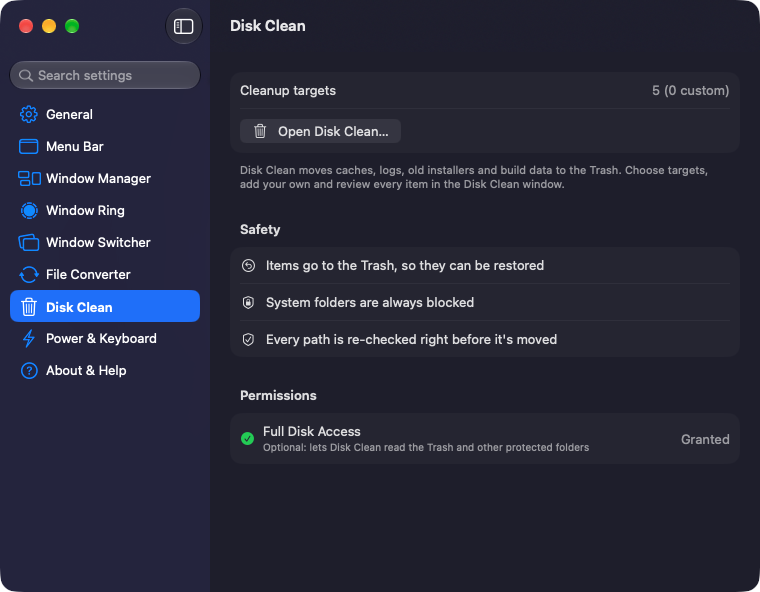
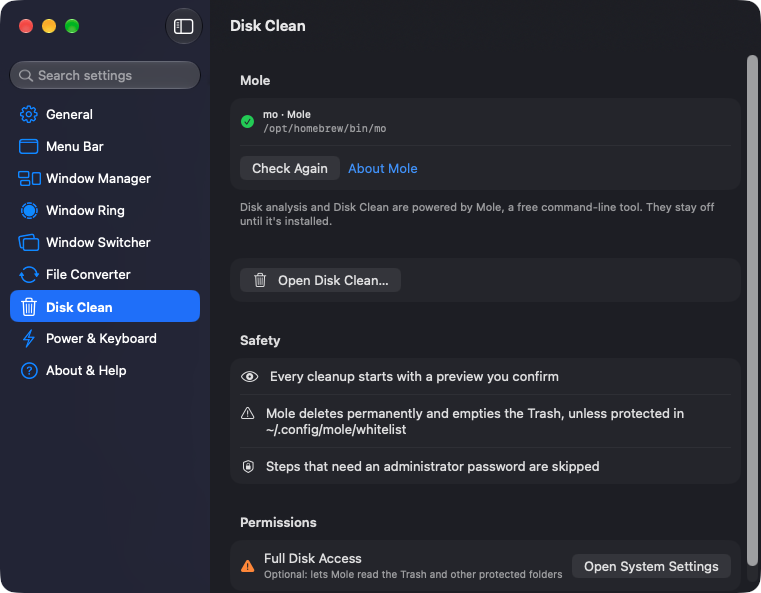
docs: document Mole-powered Disk Clean and refresh screenshots
- README and website describe the Mole setup, the Overview / Clean /
  Optimize modes, safety and Full Disk Access; credit Mole.
- New and updated Disk screenshots, plus a Clean preview capture.
- Correct the privacy claim: the only network request is the daily
  update check, which can be turned off.

diff --git a/docs/i18n.js b/docs/i18n.js
@@ -41,17 +41,17 @@ window.I18N = {
     'pv.r1c': 'Restano spente, il resto funziona',
     'pv.r2b': 'Anteprime dal vivo nello switcher',
     'pv.r2c': 'Mostra le icone delle app',
-    'pv.r3b': 'Disk Clean nelle cartelle protette (facoltativo)',
-    'pv.r3c': 'Indicate come non leggibili',
+    'pv.r3b': 'Mole legge le cartelle protette, come il Cestino (facoltativo)',
+    'pv.r3c': 'Mole le salta',
     'pv.r4a': 'Rete',
-    'pv.r4b': 'Niente. Nessuna chiamata, nessuna analytics.',
+    'pv.r4b': 'Solo un controllo giornaliero degli aggiornamenti, disattivabile. Nessuna analytics.',
     'in.title': 'Pronto <i>in un minuto.</i>',
     'in.s1': 'Scarica l\'ultimo <code>Rondo.zip</code> da GitHub Releases e sposta Rondo in Applicazioni.',
     'in.s2': 'L\'app non è notarizzata: la prima volta, clic destro → <b>Apri</b>.',
     'in.s3': 'Cerca l\'anello nella barra dei menu. Concedi Accessibilità quando vuoi le funzioni per le finestre.',
-    'in.s4': 'Facoltativo, per video, audio e WebP:',
+    'in.s4': 'Facoltativo, per Disk Clean, video, audio e WebP:',
     'in.req': 'Richiede macOS 26 Tahoe o successivo',
-    'ft.credits': 'Anello ispirato a Loop, Disk Clean a One Menu, converter a Tangerine.'
+    'ft.credits': 'Anello ispirato a Loop, suggerimenti di affiancamento a One Menu, converter a Tangerine. Analisi e pulizia del disco con Mole.'
   },
 
   dial: {
@@ -60,8 +60,8 @@ window.I18N = {
         body: 'CPU, memory and disk as rings, network as a one-minute chart. Click a ring for the full System Monitor.',
         list: ['Top memory apps, helpers grouped, one-click quit', 'GPU, temperatures and fans in the monitor', 'Sampling only while you look'] },
       { key: '⌘2', name: 'Disk', shot: 'disk-clean.png',
-        body: 'See the biggest folders, then clean caches, logs and DerivedData. Everything goes to the Trash first.',
-        list: ['Review the summary before confirming', 'Custom targets with ~ and *', 'System folders are always blocked'] },
+        body: 'Free space, a donut of your home folder and a treemap you can drill into. Cleaning and maintenance run through Mole.',
+        list: ['Treemap or tree list, hover for sizes', 'Every cleanup is previewed before you confirm', 'Needs the free Mole CLI: brew install mole'] },
       { key: '⌃⌥', name: 'Windows', shot: 'window-ring.png',
         body: 'Hold ⌃⌥, move toward a zone, let go. A preview shows exactly where the window lands.',
         list: ['14 zones, each with its own shortcut', 'Fling windows to another display', 'Tiling suggestions fill what\'s left'] },
@@ -80,8 +80,8 @@ window.I18N = {
         body: 'CPU, memoria e disco come anelli, la rete come grafico dell\'ultimo minuto. Clicca un anello per il System Monitor completo.',
         list: ['App che usano più memoria, helper raggruppati, chiusura con un clic', 'GPU, temperature e ventole nel monitor', 'Campiona solo mentre guardi'] },
       { key: '⌘2', name: 'Disco', shot: 'disk-clean.png',
-        body: 'Vedi le cartelle più pesanti, poi pulisci cache, log e DerivedData. Tutto passa prima dal Cestino.',
-        list: ['Rivedi il riepilogo prima di confermare', 'Obiettivi personalizzati con ~ e *', 'Le cartelle di sistema sono sempre bloccate'] },
+        body: 'Spazio libero, una ciambella della cartella Inizio e una mappa ad albero in cui scendere. Pulizia e manutenzione passano da Mole.',
+        list: ['Mappa o elenco ad albero, passa sopra per le dimensioni', 'Ogni pulizia mostra un\'anteprima prima di confermare', 'Richiede la CLI gratuita Mole: brew install mole'] },
       { key: '⌃⌥', name: 'Finestre', shot: 'window-ring.png',
         body: 'Tieni premuto ⌃⌥, muoviti verso una zona, rilascia. Un\'anteprima mostra dove finirà la finestra.',
         list: ['14 zone, ognuna con la sua scorciatoia', 'Lancia le finestre su un altro schermo', 'I suggerimenti riempiono lo spazio rimasto'] },

diff --git a/docs/index.html b/docs/index.html
@@ -131,8 +131,8 @@
     <div class="row th"><span data-i18n="pv.h1">Permission</span><span data-i18n="pv.h2">Used for</span><span data-i18n="pv.h3">Without it</span></div>
     <div class="row"><span>Accessibility</span><span data-i18n="pv.r1b">Zones, Window Ring, switcher, Keyboard Cleaning</span><span data-i18n="pv.r1c">Those stay off, the rest works</span></div>
     <div class="row"><span>Screen Recording</span><span data-i18n="pv.r2b">Live thumbnails in the switcher</span><span data-i18n="pv.r2c">App icons instead</span></div>
-    <div class="row"><span>Full Disk Access</span><span data-i18n="pv.r3b">Disk Clean in protected folders (optional)</span><span data-i18n="pv.r3c">Listed as unreadable</span></div>
-    <div class="row"><span data-i18n="pv.r4a">Network</span><span data-i18n="pv.r4b">Nothing. No calls, no analytics.</span><span>—</span></div>
+    <div class="row"><span>Full Disk Access</span><span data-i18n="pv.r3b">Mole reads protected folders such as the Trash (optional)</span><span data-i18n="pv.r3c">Mole skips them</span></div>
+    <div class="row"><span data-i18n="pv.r4a">Network</span><span data-i18n="pv.r4b">Only a daily update check, which you can turn off. No analytics.</span><span>—</span></div>
   </div>
 </section>
 
@@ -146,7 +146,7 @@
     <li><b>01</b><span data-i18n="in.s1">Download the latest <code>Rondo.zip</code> from GitHub Releases and move Rondo to Applications.</span></li>
     <li><b>02</b><span data-i18n="in.s2">The app isn't notarized: the first time, right-click → <b>Open</b>.</span></li>
     <li><b>03</b><span data-i18n="in.s3">Look for the ring in the menu bar. Grant Accessibility when you want the window features.</span></li>
-    <li><b>04</b><span data-i18n="in.s4">Optional, for video, audio and WebP:</span><code class="cmd">brew install ffmpeg webp</code></li>
+    <li><b>04</b><span data-i18n="in.s4">Optional, for Disk Clean, video, audio and WebP:</span><code class="cmd">brew install mole ffmpeg webp</code></li>
   </ol>
   <div class="cta center">
     <a class="btn" href="https://github.com/simone98dm/rondo/releases/latest" data-i18n="cta.download">Download for macOS</a>
@@ -159,7 +159,7 @@
 
 <footer class="foot">
   <span>Rondo · <a href="https://github.com/simone98dm/rondo">github.com/simone98dm/rondo</a></span>
-  <span data-i18n="ft.credits">Ring inspired by Loop, Disk Clean by One Menu, converter by Tangerine.</span>
+  <span data-i18n="ft.credits">Ring inspired by Loop, tiling suggestions by One Menu, converter by Tangerine. Disk analysis and cleaning by Mole.</span>
 </footer>
 
 <script src="https://cdnjs.cloudflare.com/ajax/libs/three.js/r128/three.min.js" integrity="sha384-CI3ELBVUz9XQO+97x6nwMDPosPR5XvsxW2ua7N1Xeygeh1IxtgqtCkGfQY9WWdHu" crossorigin="anonymous" defer></script>

diff --git a/README.md b/README.md
@@ -93,23 +93,22 @@ Settings → **Menu Bar** has a live preview on light and dark menu bars.
 
 ## Disk and Disk Clean
 
-| Disk tab | Disk Clean window |
-| :---: | :---: |
-| ![Disk tab](screenshot/popover-disk.png) | ![Disk Clean](screenshot/disk-clean.png) |
+| Disk tab | Disk Clean: Overview | Disk Clean: Clean preview |
+| :---: | :---: | :---: |
+| ![Disk tab](screenshot/popover-disk.png) | ![Disk Clean overview with treemap](screenshot/disk-clean.png) | ![Clean preview by category](screenshot/disk-clean-clean.png) |
 
-- The **Disk tab** shows a donut of the largest folders in your home folder, scanned on demand.
-- Clicking the donut, a folder, or **Clean Up…** opens **Disk Clean**. Right-click a folder to show it in Finder.
-- **Disk Clean**:
-  1. Press **Scan**.
-  2. Each target shows its item count and size: user caches, logs, Xcode DerivedData, installers in Downloads, and the Trash.
-  3. Tick the targets you want, and expand a target to untick single items.
-  4. Press **Move to Trash…** and review the summary before confirming.
-- Items are **moved to the Trash**, so you can put them back. Only the Trash target deletes permanently, and it's labelled that way.
-- **Custom targets** accept `~` and `*` (e.g. `~/Downloads/*.tmp`).
-  - System folders are always blocked.
-  - Paths inside `/Users`, `/Library`, `/Applications` and `/Volumes` must be at least 4 levels deep.
-  - Every path is re-checked (symlinks resolved) right before it's moved.
-- Folders Rondo can't read are listed, with a link to grant **Full Disk Access**.
+Disk analysis and cleanup are powered by [Mole](https://github.com/tw93/mole), a free open-source CLI. Rondo ships no cleaning logic of its own: it runs `mo`, reads its previews and charts the results.
+
+- **Setup:** install Mole with `brew install mole`. On first launch without it, Rondo opens Disk Clean with the install command to copy. The Disk features stay off until `mo` is found (Settings → Disk Clean → **Check Again**).
+- The **Disk tab** shows free space and a donut of what fills your home folder (`mo analyze --json ~`). Hover a slice or a legend row to read it. Click a row to show it in Finder.
+- **Disk Clean** has three modes:
+  - **Overview:** free space, a home-folder donut, Mole's heavy locations (cleanable caches marked), and a folder explorer. Switch the explorer between **UI**, a treemap that fills the window where each tile's area is its size (hover for name, size and share; click a folder to open it), and **List**, an expandable tree. Every folder is analyzed by Mole the first time you open it.
+  - **Clean:** `mo clean --dry-run` shows the space to free as a donut by category, plus every path. **Clean…** runs `mo clean`.
+  - **Optimize:** `mo optimize --dry-run` lists the maintenance tasks. **Optimize…** runs `mo optimize`.
+- Clean and Optimize always preview first. Nothing runs until you confirm.
+- Mole **deletes permanently** and empties the Trash. To protect a path, add it to `~/.config/mole/whitelist` and preview again.
+- Steps that need an administrator password are skipped. Run `mo clean` in Terminal for a full system-level clean.
+- Granting Rondo **Full Disk Access** lets Mole read the Trash and other protected folders.
 
 ---
 
@@ -227,7 +226,7 @@ A regular window (⌘,) with a searchable sidebar:
 | **Window Ring** | Trigger (default ⌃⌥, remappable), ring on/off, size, preview, haptics, direction map |
 | **Window Switcher** | Enable, shortcut, permissions |
 | **File Converter** | On/off, wheel keys, where results go, reveal in Finder, ffmpeg/cwebp status, recents |
-| **Disk Clean** | Summary, safety rules, Full Disk Access status |
+| **Disk Clean** | Mole status and install command, safety notes, Full Disk Access status |
 | **Power & Keyboard** | Stay Awake mode and duration, Keyboard Cleaning auto-exit |
 | **About & Help** | Version, links, keyboard cheat-sheet |
 
@@ -239,7 +238,7 @@ A regular window (⌘,) with a searchable sidebar:
 | --- | --- | --- |
 | **Accessibility** | Zone shortcuts, Window Ring, tiling suggestions, window switcher, Keyboard Cleaning | Those features stay off; everything else works |
 | **Screen Recording** | Live thumbnails in the switcher | App icons are shown instead |
-| **Full Disk Access** *(optional)* | Disk Clean reading protected folders such as the Trash | Those folders are listed as unreadable |
+| **Full Disk Access** *(optional)* | Mole reading protected folders such as the Trash | Mole skips those folders |
 | **Automation** *(asked on first use)* | Converting Pages, Keynote and Numbers files | Those formats are unavailable |
 
 Grant them in System Settings → Privacy & Security. Rondo notices the change by itself; there's no need to relaunch.
@@ -251,6 +250,7 @@ Grant them in System Settings → Privacy & Security. Rondo notices the change b
 - macOS 26 (Tahoe) or later
 - Xcode 26 or later to build
 - Optional for the File Converter: `brew install ffmpeg webp`
+- Optional: [Mole](https://github.com/tw93/mole) (`brew install mole`) for Disk analysis and Disk Clean
 
 ---
 
@@ -291,7 +291,7 @@ First launch:
 
 The script bumps the version in the project, builds **once** into `dist/Rondo.app`, checks that the built app reports the new version, zips that same app, commits, creates an annotated tag `vX.Y.Z`, pushes, and publishes the GitHub release. A GitHub Action (`.github/workflows/tag-version.yml`) also fails any pushed tag whose name doesn't match the app version, and `./scripts/version.sh` prints or checks the version by hand.
 
-- **Unit tests** (`RondoTests`, Swift Testing) cover zone geometry, multi-monitor screen choice, shortcut normalization, the shared event tap, the switcher and ring state machines, menu bar formatting, sampler math, process grouping, Disk Clean policy and Trash behaviour, Stay Awake assertions, Keyboard Cleaning, tiling suggestions and the converter switch.
+- **Unit tests** (`RondoTests`, Swift Testing) cover zone geometry, multi-monitor screen choice, shortcut normalization, the shared event tap, the switcher and ring state machines, menu bar formatting, sampler math, process grouping, Mole output parsing and command flow, treemap layout and chart slices, Stay Awake assertions, Keyboard Cleaning, tiling suggestions and the converter switch.
 - **UI tests** (`RondoUITests`) drive the popover, the Settings window, Disk Clean and System Monitor, and check that every control has an accessibility label.
 - **RondoCore** runs the full conversion matrix.
 
@@ -305,7 +305,7 @@ Launch flags used by tests and tools:
 | `--open-popover-window[=Tab]` | Popover content in a window |
 | `--open-settings=<pane>` | Settings window on a pane |
 | `--open-system-monitor` | System Monitor window |
-| `--open-disk-clean` | Disk Clean window |
+| `--open-disk-clean[=clean\|optimize]` | Disk Clean window, on Overview or the given mode |
 | `--open-about` | About window |
 
 ---
@@ -319,8 +319,7 @@ Rondo/
   Modules/
     SystemMonitor/   sampler, sensors, process groups, popover + window views
     StatusBar/       menu bar formatter and renderer
-    DiskUtility/     Disk tab
-    DiskClean/       path policy, service, window
+    Mole/            Mole CLI runner and parsers, Disk tab, Disk Clean window
     WindowManager/   zones, shortcuts, tiling suggestions, free-space math
     WindowRing/      ring logic, key handling, ring and preview
     TabSwitch/       window switcher
@@ -337,7 +336,7 @@ scripts/             build, test, perf, e2e, screenshots, icons
 
 ## Privacy, uninstall and credits
 
-- **Privacy:** no network calls and no analytics. Conversions, scans and cleanups happen on your Mac.
+- **Privacy:** no analytics. The only network request is a daily check for a new release on GitHub, which you can turn off in Settings → General. Conversions, scans and cleanups happen on your Mac.
 - **Uninstall:** quit Rondo, delete the app, then `defaults delete com.simone98dm.rondo`.
-- **Credits:** the ring concept is inspired by [Loop](https://github.com/MrKai77/Loop), the tiling suggestions and Disk Clean rules by [One Menu](https://coffeebreak.software/one-menu/), and the File Converter by [Tangerine](https://apps.apple.com/app/id6813034065). No code was copied from Loop (GPL); the ring is an independent implementation.
+- **Credits:** the ring concept is inspired by [Loop](https://github.com/MrKai77/Loop), the tiling suggestions by [One Menu](https://coffeebreak.software/one-menu/), and the File Converter by [Tangerine](https://apps.apple.com/app/id6813034065). No code was copied from Loop (GPL); the ring is an independent implementation. Disk analysis and cleaning are done by [Mole](https://github.com/tw93/mole) (GPL-3.0), which Rondo runs as a separate command-line program; no Mole code is included in Rondo.
 - **License:** [MIT](LICENSE).
